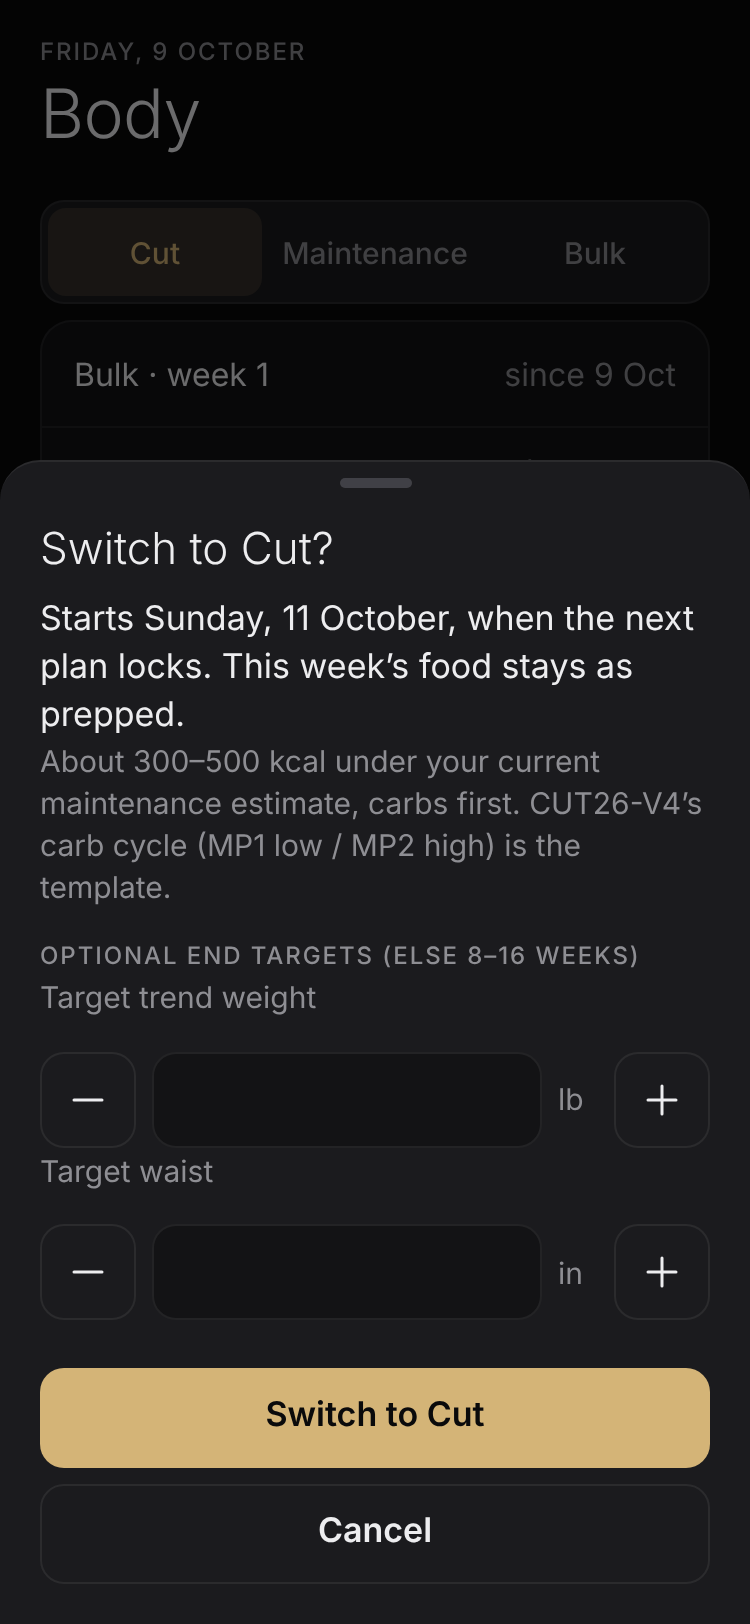
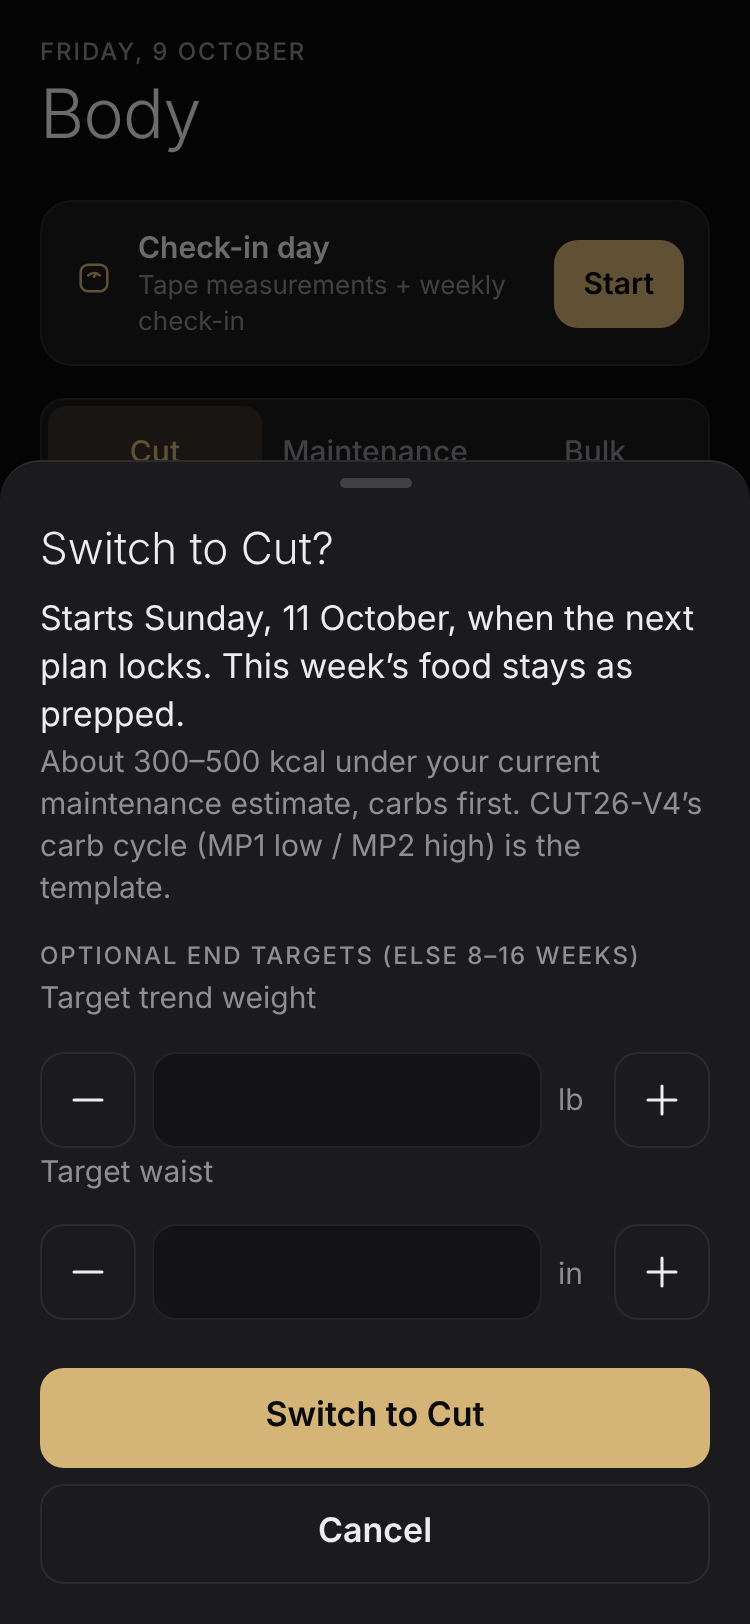
Make the measurements and check-in easy to find (0.2.1)
Walter couldn't find where to log measurements: the card was labelled
'Weekly check-in' and sat below the fold. Now, on check-in days, a
banner at the top of Body (Start) and of Week (Open) jumps straight to
the card; the section is 'Measurements & check-in' with sub-headings;
on other days a 'Log measurements & check-in' link sits under Weight.
The e2e drives both entry points and checks the card scrolls into view.

Claude-Session: https://claude.ai/code/session_0124SxiPomaH4urvYjceAnmx

diff --git a/app/views/body.js b/app/views/body.js
@@ -28,7 +28,12 @@ const BIO = [
 ];
 
 // View state that survives re-renders while the app is open.
-const ui = { weightDate: null, forceCheckin: false, showTable: false, range: pref('wm.range', '12w'), overlay: pref('wm.overlay', 'none') };
+const ui = { weightDate: null, forceCheckin: false, focusCheckin: false, showTable: false, range: pref('wm.range', '12w'), overlay: pref('wm.overlay', 'none') };
+
+// Called from the Week tab's check-in banner: open Body scrolled to the card.
+export function focusCheckin() {
+  ui.focusCheckin = true;
+}
 
 function pref(key, fallback) {
   try { return window.localStorage.getItem(key) || fallback; } catch { return fallback; }
@@ -78,6 +83,12 @@ export async function render(screen, ctx) {
       h('span', { class: 'grow' }, `${status.reason} ${next ? `Consider switching to ${MODE_LABEL[next]}.` : 'Pick the next phase below.'}`),
       next ? h('button', { type: 'button', class: 'btn small outline', onClick: () => confirmModeChange(ctx, next, { measurements }) }, 'Switch') : null));
   }
+  if (ci.open && !ci.done && !ui.forceCheckin) {
+    banners.append(h('div', { class: 'banner' },
+      h('span', { class: 'accent' }, icon('body', { size: 20 })),
+      h('span', { class: 'grow' }, h('div', { class: 'strong' }, ci.late ? `Check-in due ${dayText(ci.due, today)}` : 'Check-in day'), h('div', { class: 'muted xsmall' }, 'Tape measurements + weekly check-in')),
+      h('button', { type: 'button', class: 'btn small primary', onClick: () => scrollToCheckin() }, 'Start')));
+  }
   const exportAge = lastExport ? daysBetween(lastExport.local_date, today) : Infinity;
   if (ci.done && ci.open && exportAge >= 6) {
     banners.append(h('div', { class: 'banner' },
@@ -94,19 +105,27 @@ export async function render(screen, ctx) {
 
   const showCheckin = (ci.open && !ci.done) || ui.forceCheckin;
   if (showCheckin) {
-    screen.append(sectionLabel(ci.late ? `Check-in · due ${dayText(ci.due, today)}` : 'Weekly check-in'),
+    screen.append(h('div', { id: 'checkin' }, sectionLabel(ci.late ? `Measurements & check-in · due ${dayText(ci.due, today)}` : 'Measurements & check-in')),
       checkinCard(ctx, { ci, today, tz, measurements, checkins, taps }));
   } else if (ci.done && ci.open) {
-    screen.append(sectionLabel('Weekly check-in'), checkinSummary(ctx, ci.done, measurements));
+    screen.append(h('div', { id: 'checkin' }, sectionLabel('Measurements & check-in')), checkinSummary(ctx, ci.done, measurements));
+  } else {
+    screen.append(h('div', { class: 'center', style: 'margin-top:8px' },
+      h('button', { type: 'button', class: 'link-btn', onClick: () => { ui.forceCheckin = true; ui.focusCheckin = true; ctx.refresh(); } },
+        ci.done ? 'Edit this week’s measurements & check-in' : `Log measurements & check-in (due ${WEEKDAYS[s.checkin_day - 1]})`)));
   }
 
   screen.append(sectionLabel('Trend'), trendCard(ctx, { series, phases, measurements, rate, bands, today, lastTrend }));
   screen.append(sectionLabel('On plan today?'), onPlanCard(ctx, { taps, today, tz }));
-  if (!showCheckin && !(ci.done && ci.open)) {
-    screen.append(h('div', { class: 'center', style: 'margin-top:16px' },
-      h('button', { type: 'button', class: 'link-btn', onClick: () => { ui.forceCheckin = true; ctx.refresh(); } },
-        ci.done ? 'Edit this week’s check-in' : `Check in now (due ${WEEKDAYS[s.checkin_day - 1]})`)));
+  if (ui.focusCheckin) {
+    ui.focusCheckin = false;
+    setTimeout(scrollToCheckin, 60); // after the shell has placed this screen
   }
+}
+
+function scrollToCheckin() {
+  const el = document.getElementById('checkin');
+  if (el) el.scrollIntoView({ behavior: 'smooth', block: 'start' });
 }
 
 // ---- 1. mode switch -------------------------------------------------------------------------
@@ -317,8 +336,10 @@ function checkinCard(ctx, { ci, today, tz, measurements, checkins, taps }) {
   return h('div', { class: 'card stack' },
     h('p', { class: 'muted small', style: 'margin:0' }, 'Fasted, after the weigh-in, before training. Tape snug, not compressing. Two readings per site; the app averages them.'),
     h('div', {},
+      h('p', { class: 'label', style: 'margin:0 0 4px; color: var(--text)' }, 'Tape measurements'),
       h('div', { class: 'site-row site-head' }, h('span', {}, `Site (${lenUnit})`), h('span', {}, '1st'), h('span', {}, '2nd'), h('span', {}, 'Avg')),
       rows),
+    h('p', { class: 'label', style: 'margin:8px 0 0; color: var(--text)' }, 'Check-in'),
     h('div', { class: 'field' },
       h('span', { class: 'label' }, 'Adherence this week'),
       adherenceField,
@@ -338,7 +359,7 @@ function checkinSummary(ctx, done, measurements) {
   const avgBio = vals.length ? (vals.reduce((a, c) => a + c, 0) / vals.length).toFixed(1) : '–';
   return h('div', { class: 'card flush list' },
     h('div', { class: 'item' }, h('span', { class: 'accent' }, icon('check', { size: 20 })), h('span', { class: 'grow' }, `Done · ${formatDayMonth(done.local_date)}`),
-      h('button', { type: 'button', class: 'link-btn', style: 'padding:0', onClick: () => { ui.forceCheckin = true; ctx.refresh(); } }, 'Edit')),
+      h('button', { type: 'button', class: 'link-btn', style: 'padding:0', onClick: () => { ui.forceCheckin = true; ui.focusCheckin = true; ctx.refresh(); } }, 'Edit')),
     m && m.avg.waist ? h('div', { class: 'item' }, h('span', { class: 'grow' }, 'Waist'), h('span', { class: 'value' }, `${ctx.fmtLength(m.avg.waist)} ${ctx.lengthUnit()}`)) : null,
     h('div', { class: 'item' }, h('span', { class: 'grow' }, 'Adherence'), h('span', { class: 'value' }, done.adherence_pct === null ? '–' : `${done.adherence_pct} %`)),
     h('div', { class: 'item' }, h('span', { class: 'grow' }, 'Biofeedback'), h('span', { class: 'value' }, `${avgBio} / 5`)));

diff --git a/app/views/week.js b/app/views/week.js
@@ -1,13 +1,18 @@
 // Week tab (spec §4.1): Mon–Sun strip in local time, today highlighted.
-import { h, openSheet } from '../ui.js';
+import { h, icon, openSheet } from '../ui.js';
+import { getAll } from '../db.js';
+import { live } from '../records.js';
+import { focusCheckin } from './body.js';
+import { checkinState } from '../../coach/phase.js';
 import { header, exerciseList, note } from './common.js';
 import { weekDates, isoWeekday, WEEKDAYS, formatDayMonth, formatLong, tzCity } from '../../coach/time.js';
 import { dayForWeekday } from '../../coach/program.js';
 
 const OPEN_DAY = 'Stairs by default, or runs, rides, swims and social sessions, read from Strava.';
 
-export function render(screen, ctx) {
+export async function render(screen, ctx) {
   const today = ctx.today();
+  const ci = checkinState(today, ctx.settings.checkin_day, live(await getAll(ctx.db, 'checkins')));
   const dates = weekDates(today);
   const dayOf = (date) => (ctx.program ? dayForWeekday(ctx.program, isoWeekday(date)) : null);
   const todayDay = dayOf(today);
@@ -49,8 +54,15 @@ export function render(screen, ctx) {
   }));
 
   const s = ctx.settings;
+  const banner = ci.open && !ci.done
+    ? h('div', { class: 'banner', style: 'margin-bottom:16px' },
+      h('span', { class: 'accent' }, icon('body', { size: 20 })),
+      h('span', { class: 'grow' }, h('div', { class: 'strong' }, 'Check-in day'), h('div', { class: 'muted xsmall' }, 'Tape measurements + weekly check-in')),
+      h('button', { type: 'button', class: 'btn small primary', onClick: () => { focusCheckin(); ctx.navigate('#/body'); } }, 'Open'))
+    : null;
   screen.append(
     header({ label: formatLong(today).replace(/ \d{4}$/, ''), title: todayDay ? todayDay.name : 'This week' }),
+    ...(banner ? [banner] : []),
     h('div', { class: 'stack' },
       strip,
       rows,

diff --git a/sw.js b/sw.js
@@ -6,7 +6,7 @@
 //   when the app posts SKIP_WAITING after Walter taps "Update available, reload".
 
 // Bump together with APP_VERSION in app/version.js on every release (a test checks).
-const CACHE_VERSION = '0.2.0';
+const CACHE_VERSION = '0.2.1';
 const SHELL_CACHE = `wmcoach-shell-${CACHE_VERSION}`;
 const DATA_CACHE = 'wmcoach-data';
 const NETWORK_FIRST = ['data/plan/', 'data/targets/'];

diff --git a/app/styles.css b/app/styles.css
@@ -524,3 +524,5 @@ textarea.input { min-height: 88px; padding: 12px 14px; resize: vertical; line-he
 .wtable .item { min-height: 48px; }
 .wtable .d { width: 92px; flex: 0 0 auto; color: var(--text-2); font-size: 13px; }
 .wtable .src { color: var(--text-3); font-size: 12px; }
+
+#checkin { scroll-margin-top: calc(var(--safe-top) + 12px); }

diff --git a/app/version.js b/app/version.js
@@ -1,2 +1,2 @@
 // Bump on every release, together with CACHE_VERSION in sw.js (a test checks they match).
-export const APP_VERSION = '0.2.0';
+export const APP_VERSION = '0.2.1';
